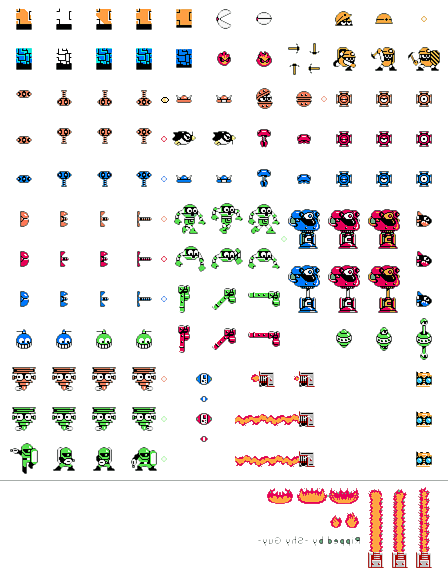
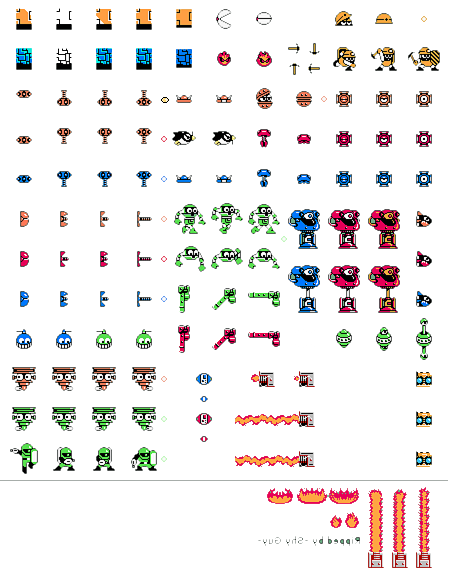
Transparent enemies.

diff --git a/Rockman/ResourceManager.cpp b/Rockman/ResourceManager.cpp
@@ -35,7 +35,7 @@ void CResourceManager::LoadResource(LPDIRECT3DDEVICE9 _d3ddv)
 
 	mMapTexture[IMAGE_ROCKMAN] = CUtils::LoadTexture(mD3ddv, IMAGE_ROCKMAN);
 	mMapTexture[IMAGE_TILES] = CUtils::LoadTexture(mD3ddv, IMAGE_TILES);
-	mMapTexture[IMAGE_ENEMIES] = CUtils::LoadTexture(mD3ddv, IMAGE_ENEMIES);
+	mMapTexture[IMAGE_ENEMIES] = CUtils::LoadTexture(mD3ddv, IMAGE_ENEMIES, RGB(255,255,255));
 	mMapTexture[IMAGE_EXPLOSIVE] = CUtils::LoadTexture(mD3ddv, IMAGE_EXPLOSIVE);	
 	mMapTexture[IMAGE_MASTER] = CUtils::LoadTexture(mD3ddv, IMAGE_MASTER);
 	mMapTexture[IMAGE_MENU] = CUtils::LoadTexture(mD3ddv, IMAGE_MENU, RGB(0,255,0));
